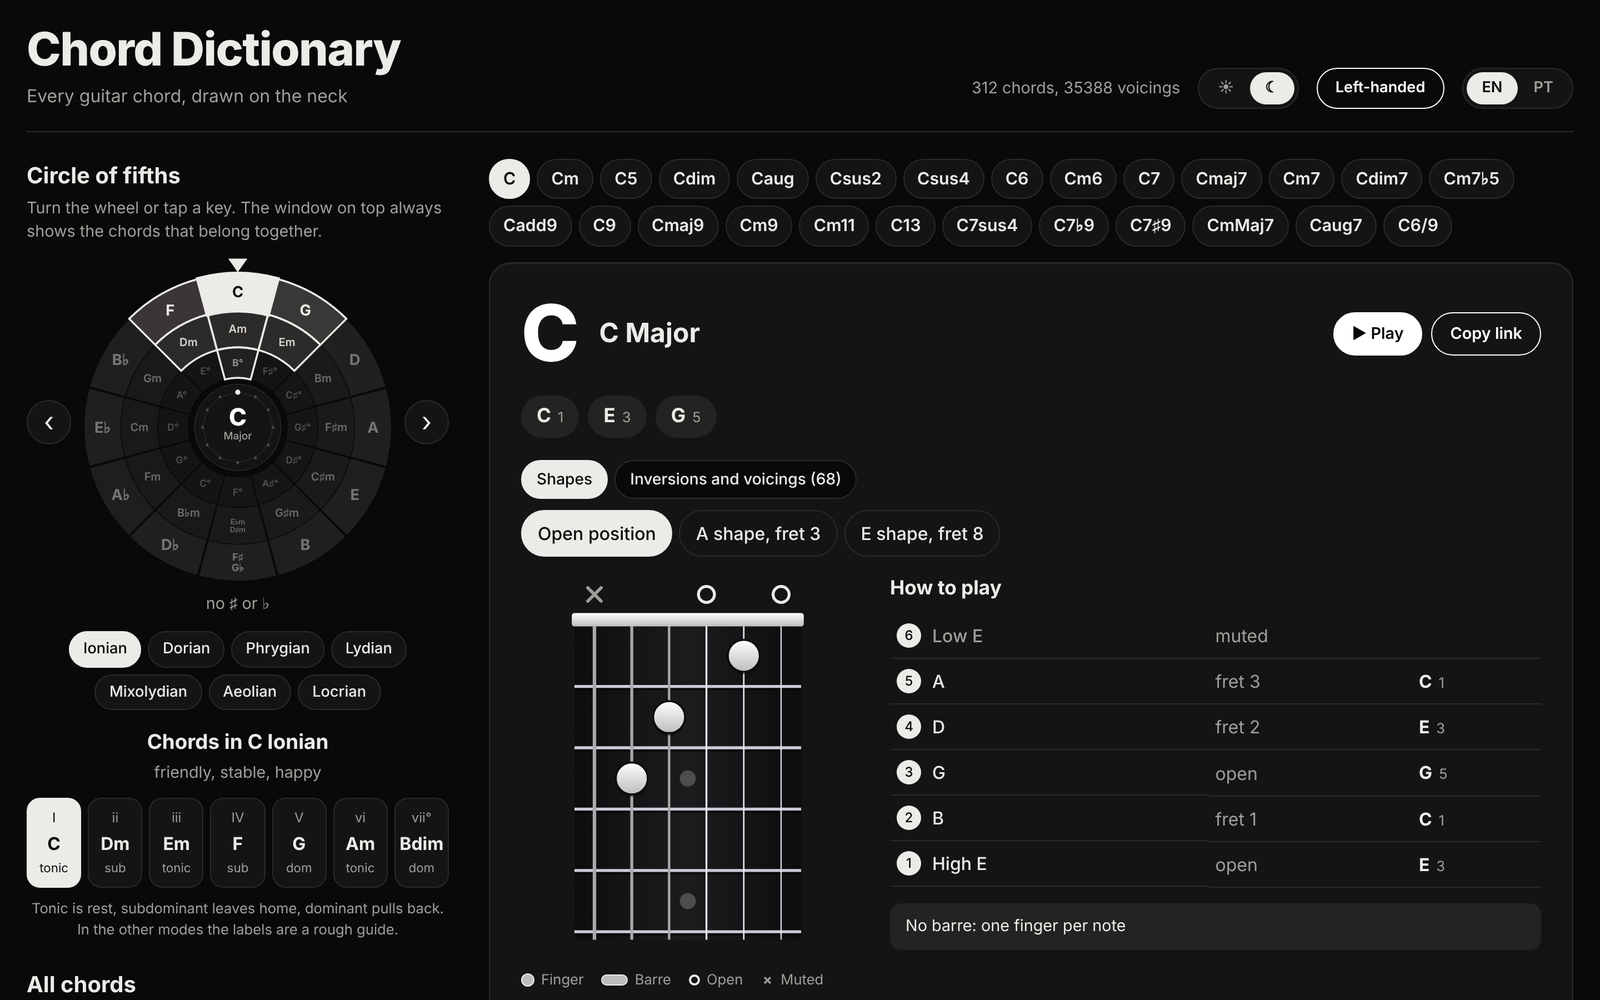
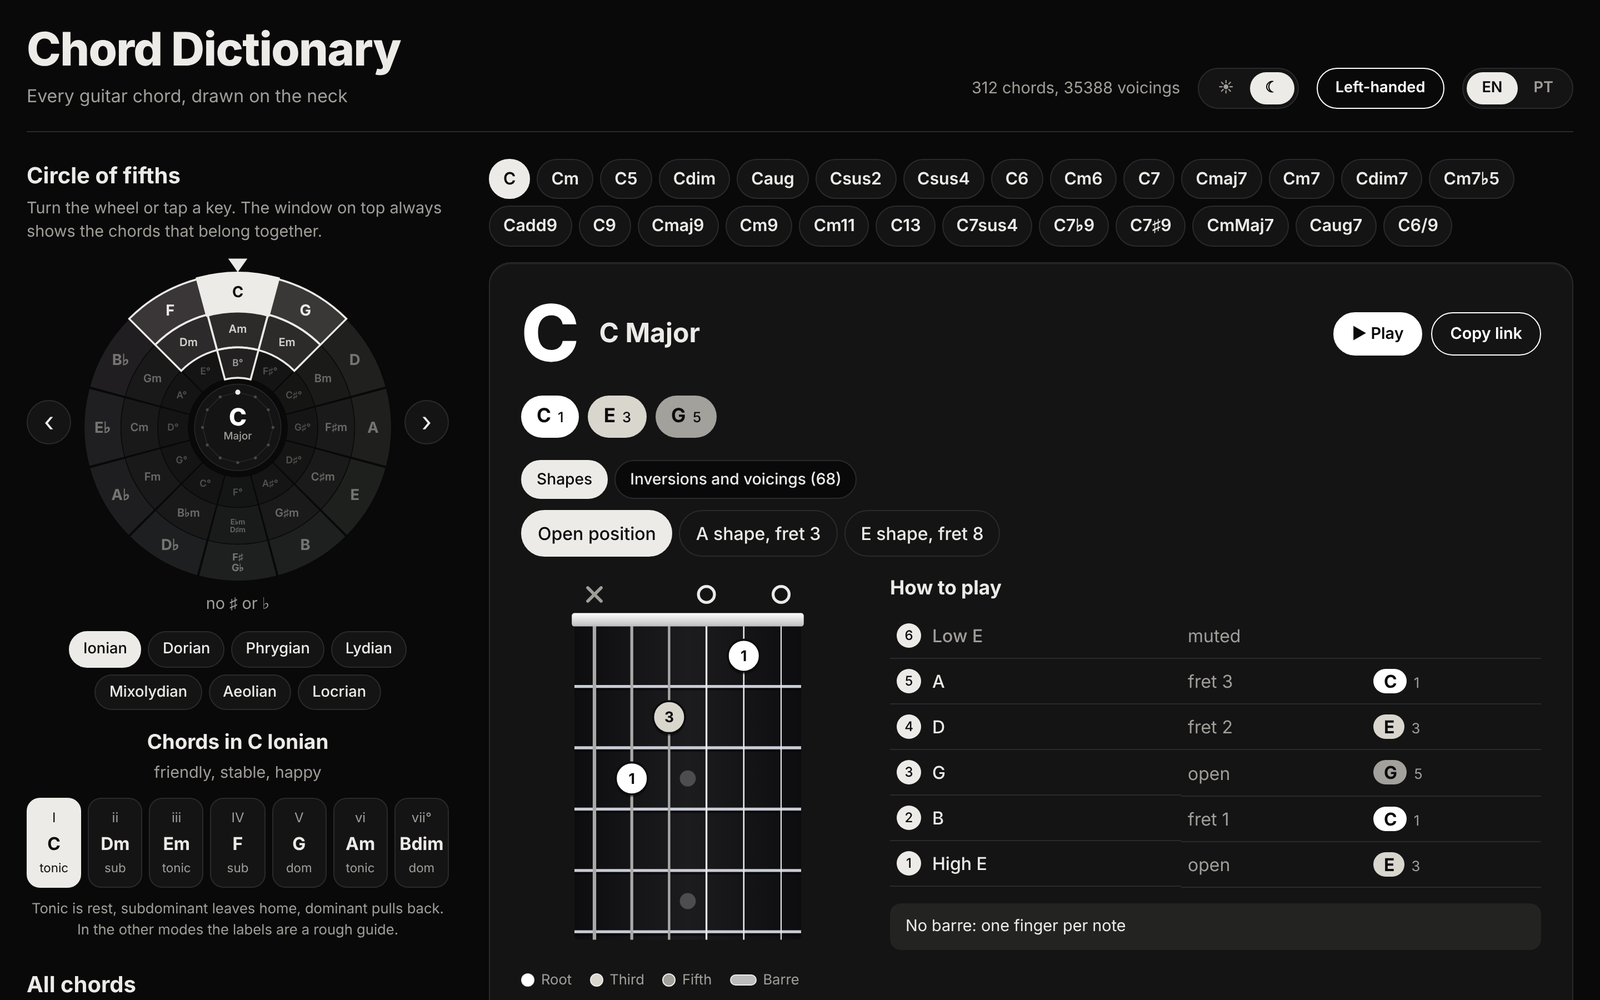
Shade notes by their job in the chord (root, third, fifth, seventh, extension) in both themes
Claude-Session: https://claude.ai/code/session_01EhUccF9YGHaihqioShzePR

diff --git a/frontend/src/components/GuitarFretboard.js b/frontend/src/components/GuitarFretboard.js
@@ -23,7 +23,7 @@ const DOUBLE_INLAY = [12, 24];
 const xOfFor = (lefty) => (stringNum) => X0 + (lefty ? stringNum - 1 : 6 - stringNum) * GAP_X;
 const rowY = (fret, base) => Y0 + (fret - base + 0.5) * GAP_Y;
 
-function GuitarFretboard({ positions, baseFret = 1, barre, compact = false, showLegend = true }) {
+function GuitarFretboard({ positions, baseFret = 1, barre, compact = false, showLegend = true, roles = null }) {
   const { t } = useI18n();
   const lefty = useContext(LeftyContext);
   const xOf = xOfFor(lefty);
@@ -163,10 +163,32 @@ function GuitarFretboard({ positions, baseFret = 1, barre, compact = false, show
           if (row < 0 || row >= FRETS) return null;
           const cx = xOf(p.string);
           const cy = rowY(p.fret, baseFret);
+          const r = roles && roles[p.string];
           return (
             <g key={`f${p.string}`}>
               <circle cx={cx} cy={cy + 2} r="12" className="finger-shadow" />
-              <circle cx={cx} cy={cy} r="12" fill={`url(#finger${uid})`} className="finger" />
+              {r ? (
+                <>
+                  <circle cx={cx} cy={cy} r="12" className={`finger role r${r.role}`} />
+                  <text x={cx} y={cy + 4} textAnchor="middle" className={`role-text r${r.role}`}>{r.degree}</text>
+                </>
+              ) : (
+                <circle cx={cx} cy={cy} r="12" fill={`url(#finger${uid})`} className="finger" />
+              )}
+            </g>
+          );
+        })}
+
+        {/* notes under a barre keep their own shade */}
+        {roles && barreStrings && [...barreStrings].map((s) => {
+          const r = roles[s];
+          if (!r) return null;
+          const cx = xOf(s);
+          const cy = rowY(barre.fret, baseFret);
+          return (
+            <g key={`b${s}`}>
+              <circle cx={cx} cy={cy} r="9.5" className={`finger role r${r.role}`} />
+              <text x={cx} y={cy + 3.6} textAnchor="middle" className={`role-text small r${r.role}`}>{r.degree}</text>
             </g>
           );
         })}
@@ -174,7 +196,11 @@ function GuitarFretboard({ positions, baseFret = 1, barre, compact = false, show
 
       {showLegend && !compact && (
         <figcaption className="neck-legend">
-          <span><i className="lg lg-finger" />{t('legendFinger')}</span>
+          {roles
+            ? [...new Set(Object.values(roles).map((r) => r.role))].sort().map((n) => (
+              <span key={n}><i className={`lg lg-role r${n}`} />{t('toneRole', n)}</span>
+            ))
+            : <span><i className="lg lg-finger" />{t('legendFinger')}</span>}
           <span><i className="lg lg-barre" />{t('legendBarre')}</span>
           <span><i className="lg lg-open" />{t('legendOpen')}</span>
           <span><i className="lg lg-muted">×</i>{t('legendMuted')}</span>

diff --git a/frontend/src/components/ScaleNeck.js b/frontend/src/components/ScaleNeck.js
@@ -1,6 +1,6 @@
 import React, { useMemo, useState } from 'react';
 import { useI18n, pretty } from '../i18n';
-import { SCALES, SCALE_GROUPS, scaleByKey, spellScale, positionWindows, TUNING, MAX_FRET, mod12 } from '../theory';
+import { toneRole, SCALES, SCALE_GROUPS, scaleByKey, spellScale, positionWindows, TUNING, MAX_FRET, mod12 } from '../theory';
 import { playNotes, audioSupported } from '../audio';
 import { chordFor } from '../chordData';
 import { Metronome } from './PracticeTools';
@@ -96,7 +96,7 @@ function ScaleNeck({ scaleKey, onScaleChange, rootPc: keyPc, rootName: keyName, 
       const pc = mod12(TUNING[s] + f);
       const i = idxOfPc[pc];
       if (i === undefined) continue;
-      dots.push({ s, f, i, root: i === 0, chord: chordPcs.has(pc), on: lit(f) });
+      dots.push({ s, f, i, root: i === 0, chord: chordPcs.has(pc), on: lit(f), role: toneRole(scale.degs[i], scale.degs) });
     }
   });
 
@@ -214,7 +214,7 @@ function ScaleNeck({ scaleKey, onScaleChange, rootPc: keyPc, rootName: keyName, 
               </text>
             ))}
           {dots.map((d) => (
-            <g key={`${d.s}-${d.f}`} className={`nh-dot ${d.root ? 'is-root' : ''} ${d.chord ? 'is-chord' : ''} ${d.on ? '' : 'is-off'}`}>
+            <g key={`${d.s}-${d.f}`} className={`nh-dot r${d.role} ${d.root ? 'is-root' : ''} ${d.chord ? 'is-chord' : ''} ${d.on ? '' : 'is-off'}`}>
               <circle cx={fretX(d.f)} cy={stringY(d.s)} r={d.f === 0 ? 11 : 12.5} />
               <text x={fretX(d.f)} y={stringY(d.s) + 4} textAnchor="middle">
                 {labelMode === 'names' ? pretty(spelled[d.i]) : scale.degs[d.i]}
@@ -225,9 +225,10 @@ function ScaleNeck({ scaleKey, onScaleChange, rootPc: keyPc, rootName: keyName, 
       </div>
 
       <p className="scales-legend">
-        <span><i className="lg-dot is-root" />{t('legendRoot')}</span>
-        <span><i className="lg-dot" />{t('legendScale')}</span>
-        <span><i className="lg-dot is-chord" />{t('legendChord')}</span>
+        {[1, 2, 3, 4, 5].map((n) => (
+          <span key={n}><i className={`lg-dot r${n}`} />{n === 5 ? t('legendScale') : t('toneRole', n)}</span>
+        ))}
+        <span><i className="lg-dot r5 is-chord" />{t('legendChord')}</span>
       </p>
 
       {audioSupported() && (

diff --git a/frontend/src/index.css b/frontend/src/index.css
@@ -22,6 +22,18 @@
   --wheel-dot: #b4b2ad;
   --board: #151517;
   --pearl: #ffffff;
+  /* Shades by job in the chord, on the dark board: root, third, fifth, seventh, extension. */
+  --r1: #ffffff; --r1t: #0c0c0c;
+  --r2: #d9d6ce; --r2t: #0c0c0c;
+  --r3: #a3a19b; --r3t: #0c0c0c;
+  --r4: #6e6c68; --r4t: #ffffff;
+  --r5: #3f3e3b; --r5t: #ffffff;
+  /* The same five shades on the page itself. */
+  --c1: #111111; --c1t: #ffffff;
+  --c2: #4b4a47; --c2t: #ffffff;
+  --c3: #9a9892; --c3t: #0c0c0c;
+  --c4: #cbc9c3; --c4t: #111111;
+  --c5: #e8e6e1; --c5t: #111111;
   --focus-halo: #ffffff;
   --finger-a: #ffffff;
   --finger-b: #bdbdbd;
@@ -57,6 +69,11 @@
   --wheel-stroke: #09090a;
   --wheel-dot: #4a4946;
   --board: #0d0d0e;
+  --c1: #ffffff; --c1t: #0c0c0c;
+  --c2: #d9d6ce; --c2t: #0c0c0c;
+  --c3: #a3a19b; --c3t: #0c0c0c;
+  --c4: #6e6c68; --c4t: #ffffff;
+  --c5: #2a2a2b; --c5t: #ecebe7;
 }
 
 * { box-sizing: border-box; }
@@ -99,3 +116,17 @@ button:active:not(:disabled) { transform: translateY(1px); }
 ::selection { background: var(--ink); color: var(--paper); }
 @keyframes settle { from { opacity: 0; transform: translateY(6px); } to { opacity: 1; transform: none; } }
 .detail { animation: settle 0.28s ease-out; }
+
+/* Notes shaded by their job in the chord */
+.finger.role { stroke: #0c0c0c; }
+.finger.role.r4, .finger.role.r5 { stroke: #d0d0d0; }
+.finger.role.r1 { fill: var(--r1); } .finger.role.r2 { fill: var(--r2); } .finger.role.r3 { fill: var(--r3); }
+.finger.role.r4 { fill: var(--r4); } .finger.role.r5 { fill: var(--r5); }
+.role-text { font: 700 11px var(--font-display); pointer-events: none; }
+.role-text.small { font-size: 9px; }
+.role-text.r1 { fill: var(--r1t); } .role-text.r2 { fill: var(--r2t); } .role-text.r3 { fill: var(--r3t); }
+.role-text.r4 { fill: var(--r4t); } .role-text.r5 { fill: var(--r5t); }
+.lg-role { width: 12px; height: 12px; border-radius: 50%; border: 1.5px solid var(--ink); display: inline-block; }
+.lg-role.r1, .lg-dot.r1 { background: var(--r1); } .lg-role.r2, .lg-dot.r2 { background: var(--r2); }
+.lg-role.r3, .lg-dot.r3 { background: var(--r3); } .lg-role.r4, .lg-dot.r4 { background: var(--r4); }
+.lg-role.r5, .lg-dot.r5 { background: var(--r5); }

diff --git a/frontend/src/styles/ScaleNeck.css b/frontend/src/styles/ScaleNeck.css
@@ -29,16 +29,17 @@
 .nh-fretnum { font: 600 12px var(--font-body); fill: var(--ink-soft); }
 .nh-dot circle { fill: var(--dot); stroke: #0c0c0c; stroke-width: 1.2; transition: opacity 0.2s; }
 .nh-dot text { font: 700 11.5px var(--font-display); fill: #0c0c0c; pointer-events: none; }
-.nh-dot.is-root circle { fill: var(--dot-root); stroke: #0c0c0c; stroke-width: 1.6; }
-.nh-dot.is-root text { fill: #0c0c0c; }
+.nh-dot.r1 circle { fill: var(--r1); } .nh-dot.r2 circle { fill: var(--r2); } .nh-dot.r3 circle { fill: var(--r3); }
+.nh-dot.r4 circle { fill: var(--r4); stroke: #d0d0d0; } .nh-dot.r5 circle { fill: var(--r5); stroke: #d0d0d0; }
+.nh-dot.r1 text { fill: var(--r1t); } .nh-dot.r2 text { fill: var(--r2t); } .nh-dot.r3 text { fill: var(--r3t); }
+.nh-dot.r4 text { fill: var(--r4t); } .nh-dot.r5 text { fill: var(--r5t); }
 .nh-dot.is-chord circle { stroke: var(--dot-ring); stroke-width: 3.4; }
 .nh-dot.is-chord.is-root circle { stroke: #b5b5b5; stroke-width: 3.4; }
 .nh-dot.is-off { opacity: 0.16; }
 
 .scales-legend { display: flex; flex-wrap: wrap; gap: 6px 18px; margin: 10px 0 0; font-size: 0.8rem; color: var(--ink-soft); }
 .scales-legend span { display: inline-flex; align-items: center; gap: 6px; }
-.lg-dot { width: 14px; height: 14px; border-radius: 50%; background: var(--dot); border: 1.5px solid #0c0c0c; display: inline-block; }
-.lg-dot.is-root { background: var(--dot-root); border-color: #0c0c0c; }
+.lg-dot { width: 14px; height: 14px; border-radius: 50%; border: 1.5px solid var(--ink); display: inline-block; }
 .lg-dot.is-chord { border: 3px solid var(--ink); }
 
 @media (max-width: 700px) { .scales { padding: 18px; border-radius: 16px; } }

diff --git a/frontend/src/components/ChordDetail.js b/frontend/src/components/ChordDetail.js
@@ -4,6 +4,7 @@ import CagedSection from './CagedSection';
 import { useI18n, pretty } from '../i18n';
 import { strum, audioSupported } from '../audio';
 import { chordFor } from '../chordData';
+import { toneRole, rolesFor } from '../theory';
 import { GROUPS, parseInversions, loadInversions, loadedInversions } from '../inversions';
 import '../styles/ChordDetail.css';
 
@@ -135,7 +136,7 @@ function ChordDetail({ chord, onSelect }) {
 
       <ul className="tones" aria-label={t('notes')}>
         {chord.notes.map((n, i) => (
-          <li className="tone" key={n + i}>
+          <li className={`tone r${toneRole(chord.degrees[i], chord.degrees)}`} key={n + i}>
             <b>{pretty(n)}</b>
             <span>{chord.degrees[i]}</span>
           </li>
@@ -226,6 +227,7 @@ function ChordDetail({ chord, onSelect }) {
           positions={voicing.positions}
           baseFret={voicing.baseFret}
           barre={voicing.barre}
+          roles={rolesFor(chord, voicing.positions)}
         />
 
         <div className="how">
@@ -244,7 +246,7 @@ function ChordDetail({ chord, onSelect }) {
                   <td className="how-note">
                     {r.note && (
                       <>
-                        <b>{pretty(r.note.name)}</b>
+                        <b className={`rn r${toneRole(r.note.degree, chord.degrees)}`}>{pretty(r.note.name)}</b>
                         <span>{r.note.degree}</span>
                       </>
                     )}

diff --git a/frontend/src/theory.js b/frontend/src/theory.js
@@ -128,3 +128,25 @@ export function positionWindows(rootPc, scale) {
 const PARENT_LETTER = ['C', 'G', 'D', 'A', 'E', 'B', 'F', 'D', 'A', 'E', 'B', 'F'];
 export const keyNames = (parentPc) => spellScale(PARENT_LETTER[fifthsIndex(parentPc)], parentPc, SCALES[0]);
 export const QUAL_SUFFIX = { major: '', minor: 'm', dim: 'dim' };
+
+// The job a note does in a chord: 1 root, 2 third (or the sus note that replaces it), 3 fifth,
+// 4 seventh (or sixth), 5 any extension. Used to shade notes from white to dark.
+export function toneRole(degree, degrees = []) {
+  if (degree === '1') return 1;
+  if (/^[♭♯]?3$/.test(degree)) return 2;
+  if ((degree === "2" || degree === "4") && !degrees.some((d) => /^[♭♯]?3$/.test(d))) return 2;
+  if (/^[♭♯]?5$/.test(degree)) return 3;
+  if (['7', '♭7', '♭♭7', '6'].includes(degree)) return 4;
+  return 5;
+}
+
+// role of each sounded string of a voicing: { [string]: role }
+export function rolesFor(chord, positions) {
+  const out = {};
+  positions.forEach((p) => {
+    if (p.fret === null) return;
+    const i = chord.pcs.indexOf(mod12(TUNING[p.string] + p.fret));
+    if (i !== -1) out[p.string] = { role: toneRole(chord.degrees[i], chord.degrees), degree: chord.degrees[i] };
+  });
+  return out;
+}

diff --git a/frontend/src/styles/ChordDetail.css b/frontend/src/styles/ChordDetail.css
@@ -62,3 +62,12 @@ tr.is-muted th, tr.is-muted .how-fret { color: var(--ink-soft); }
 .step:disabled { opacity: 0.4; cursor: default; }
 .step:focus-visible { outline: 3px solid var(--accent-dark); outline-offset: 2px; }
 .step-count { font-weight: 600; font-size: 0.92rem; }
+
+.tone.r1 { background: var(--c1); color: var(--c1t); } .tone.r2 { background: var(--c2); color: var(--c2t); }
+.tone.r3 { background: var(--c3); color: var(--c3t); } .tone.r4 { background: var(--c4); color: var(--c4t); }
+.tone.r5 { background: var(--c5); color: var(--c5t); box-shadow: inset 0 0 0 1px var(--ink-soft); }
+.tone span { color: inherit; opacity: 1; font-weight: 500; }
+.how-note b.rn { padding: 1px 9px; border-radius: 999px; }
+.how-note b.r1 { background: var(--c1); color: var(--c1t); } .how-note b.r2 { background: var(--c2); color: var(--c2t); }
+.how-note b.r3 { background: var(--c3); color: var(--c3t); } .how-note b.r4 { background: var(--c4); color: var(--c4t); }
+.how-note b.r5 { background: var(--c5); color: var(--c5t); box-shadow: inset 0 0 0 1px var(--ink-soft); }

diff --git a/frontend/src/i18n.js b/frontend/src/i18n.js
@@ -93,6 +93,8 @@ export const DICT = {
     cagedShape: (l) => `${l} shape`,
     cagedWhere: (f) => (f === 0 ? 'open' : `fret ${f}`),
     legendFinger: 'Finger',
+    toneRole: (n) => ['', 'Root', 'Third', 'Fifth', 'Seventh', 'Extension'][n],
+    toneKey: 'Shades: root, third, fifth, seventh, extension',
     legendOpen: 'Open',
     legendMuted: 'Muted',
     legendBarre: 'Barre',
@@ -241,6 +243,8 @@ export const DICT = {
     cagedShape: (l) => `Forma de ${l}`,
     cagedWhere: (f) => (f === 0 ? 'solta' : `casa ${f}`),
     legendFinger: 'Dedo',
+    toneRole: (n) => ['', 'Fundamental', 'Terça', 'Quinta', 'Sétima', 'Extensão'][n],
+    toneKey: 'Tons: fundamental, terça, quinta, sétima, extensão',
     legendOpen: 'Solta',
     legendMuted: 'Abafada',
     legendBarre: 'Pestana',

diff --git a/frontend/src/theory.test.js b/frontend/src/theory.test.js
@@ -67,3 +67,10 @@ test('English and Portuguese dictionaries have the same keys', () => {
 test('the neck runs to fret 22', () => {
   expect(require('./theory').MAX_FRET).toBe(22);
 });
+
+test('tone roles: root, third, fifth, seventh, extension', () => {
+  const { toneRole } = require('./theory');
+  expect(['1', '3', '♭3', '5', '♭5', '♯5', '♭7', '7', '6', '9', '♯11', '13', '♭13'].map((d) => toneRole(d, ['1', '3', '5']))).toEqual([1, 2, 2, 3, 3, 3, 4, 4, 4, 5, 5, 5, 5]);
+  expect(toneRole('4', ['1', '4', '5'])).toBe(2);
+  expect(toneRole('4', ['1', '3', '5', '4'])).toBe(5);
+});

diff --git a/frontend/src/components/CagedSection.js b/frontend/src/components/CagedSection.js
@@ -1,5 +1,6 @@
 import React from 'react';
 import GuitarFretboard from './GuitarFretboard';
+import { rolesFor } from '../theory';
 import { useI18n, pretty } from '../i18n';
 import '../styles/CagedSection.css';
 
@@ -29,6 +30,7 @@ function CagedSection({ chord }) {
               positions={form.positions}
               baseFret={form.baseFret}
               barre={form.barre}
+              roles={rolesFor(chord, form.positions)}
             />
           </li>
         ))}

diff --git a/README.md b/README.md
@@ -14,6 +14,7 @@ An open-source, interactive **guitar chord dictionary**. Search any chord, see i
 - **Arpeggios**: the notes of the chord on screen across the neck, in five positions tied to the CAGED shapes
 - **Progression builder**: build a sequence, hear it, move it to another key and see the Roman numerals
 - **Practice tools**: metronome with quarter, eighth, triplet and sixteenth subdivisions, a chord quiz (by sight or by ear) and a left-handed mirror mode
+- **Notes shaded by their job**: root, third, fifth, seventh and extensions get their own shade (white to dark) on the chord diagrams, the note chips, the *How to play* table and the scale neck, with the degree written on each finger
 - **Listen**: play any voicing as a strum, or any scale up and down (Web Audio, no files)
 - **Share**: copy a link that opens straight on the chord
 - **Circle of fifths, modes and 20 scales**, light and dark themes, installable and offline
